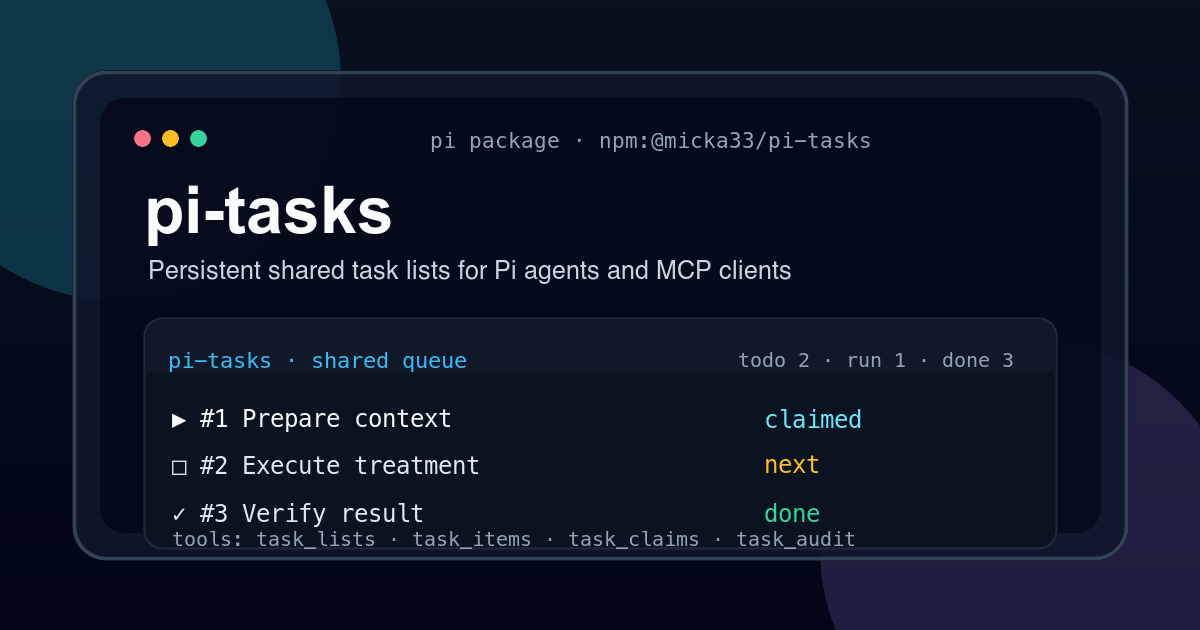
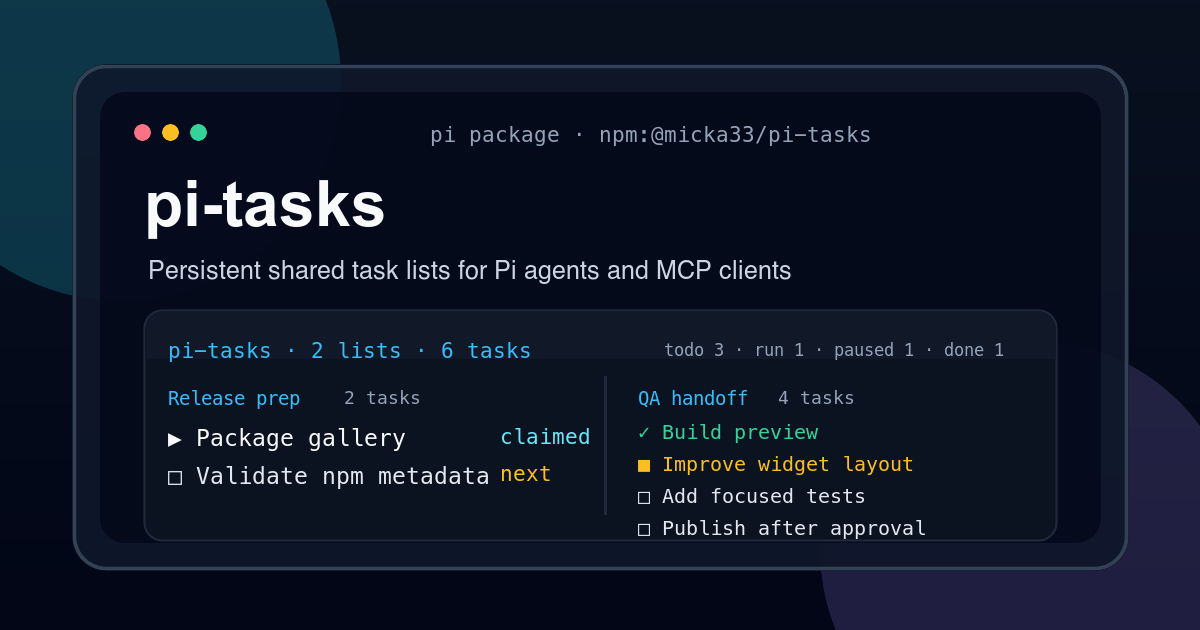
Improve pi-tasks widget readability

diff --git a/src/pi/dashboard-widget.ts b/src/pi/dashboard-widget.ts
@@ -1,4 +1,4 @@
-import type { ExtensionAPI, ExtensionContext } from "@earendil-works/pi-coding-agent";
+import type { ExtensionAPI, ExtensionContext, Theme } from "@earendil-works/pi-coding-agent";
 import type { AutocompleteItem } from "@earendil-works/pi-tui";
 import { resolvePiAgentId } from "../core/agent-id.js";
 import { buildDashboard, type DashboardData, type DashboardList, type DashboardTask, type StatusCounts } from "../core/dashboard.js";
@@ -149,7 +149,7 @@ function refreshWidget(ctx: ExtensionContext, options: { notify?: boolean } = {}
         return;
       }
 
-      ctx.ui.setWidget(WIDGET_KEY, formatDashboard(dashboard, state.mode), { placement: "aboveEditor" });
+      ctx.ui.setWidget(WIDGET_KEY, colorizeDashboardLines(formatDashboard(dashboard, state.mode), ctx.ui.theme), { placement: "aboveEditor" });
       ctx.ui.setStatus(WIDGET_KEY, formatStatus(dashboard));
       if (options.notify) ctx.ui.notify(`${notifications.refreshedPrefix} (${state.mode})`, "info");
     } finally {
@@ -178,35 +178,87 @@ export function formatDashboard(dashboard: DashboardData, mode: WidgetMode): str
   const title = `pi-tasks · ${shortenAgentId(dashboard.agentId)} · ${plural(dashboard.lists.length, ui.title.list)} · ${plural(dashboard.totalActiveTasks, ui.title.task)}`;
   const maxLines = mode === "full" ? FULL_WIDGET_LINES : COMPACT_WIDGET_LINES;
   const entries = mode === "full" ? buildFullEntries(dashboard) : buildCompactEntries(dashboard);
-  const footer = mode === "full" ? ui.footer.compact : ui.footer.full;
+  const switchCommand = mode === "full" ? ui.footer.compact : ui.footer.full;
+  const footer = `mode ${mode} · ${switchCommand}`;
 
   return frameEntries(title, entries, footer, maxLines);
+}
+
+export function colorizeDashboardLines(lines: string[], theme: Theme): string[] {
+  const ui = piTasksMessages().widget;
+  const metadataStyles: Array<[string, (value: string) => string]> = [
+    [`${escapeRegExp(ui.counts.run)} \\d+`, (value) => theme.fg("accent", value)],
+    [`${escapeRegExp(ui.markers.claim)} \\S+`, (value) => theme.fg("accent", value)],
+    [`${escapeRegExp(ui.counts.todo)} \\d+`, (value) => theme.fg("muted", value)],
+    [`${escapeRegExp(ui.counts.blocked)} \\d+`, (value) => theme.fg("warning", value)],
+    [`${escapeRegExp(ui.counts.paused)} \\d+`, (value) => theme.fg("warning", value)],
+    [escapeRegExp(ui.markers.paused), (value) => theme.fg("warning", value)],
+    [`${escapeRegExp(ui.counts.done)} \\d+`, (value) => theme.fg("success", value)],
+    [`${escapeRegExp(ui.counts.canceled)} \\d+`, (value) => theme.fg("error", value)],
+  ];
+  const glyphStyles: Array<[RegExp, (value: string) => string]> = [
+    [/▶/gu, (value) => theme.fg("accent", value)],
+    [/○/gu, (value) => theme.fg("dim", value)],
+    [/■/gu, (value) => theme.fg("warning", value)],
+    [/✓/gu, (value) => theme.fg("success", value)],
+    [/×/gu, (value) => theme.fg("error", value)],
+  ];
+
+  return lines.map((lineText, index) => {
+    let colored = index === 0 ? lineText.replace("pi-tasks", theme.fg("accent", theme.bold("pi-tasks"))) : lineText;
+
+    for (const [pattern, style] of metadataStyles) {
+      colored = colorizeDelimitedMetadata(colored, pattern, style);
+    }
+
+    for (const [pattern, style] of glyphStyles) {
+      colored = colored.replace(pattern, style);
+    }
+
+    colored = colored
+      .replace(/mode (?:compact|full)/gu, (value) => theme.fg("dim", value))
+      .replace(/\/task-widget(?: (?:on|off|compact|full|refresh))?|\/task-lists|\/tasks <list_id>/gu, (value) => theme.fg("dim", value))
+      .replace(/[╭╮╰╯├┤│─]+/gu, (value) => theme.fg("borderMuted", value));
+
+    return colored;
+  });
+}
+
+function colorizeDelimitedMetadata(lineText: string, metadataPattern: string, style: (value: string) => string): string {
+  const pattern = new RegExp(`(^| · |│\\s*)(${metadataPattern})(?= · |\\s*│|$)`, "gu");
+  return lineText.replace(pattern, (_match, prefix: string, value: string) => `${prefix}${style(value)}`);
+}
+
+function escapeRegExp(value: string): string {
+  return value.replace(/[.*+?^${}()|[\]\\]/g, "\\$&");
 }
 
 function buildCompactEntries(dashboard: DashboardData): FrameEntry[] {
   const budget = COMPACT_WIDGET_LINES - 2;
   const entries: FrameEntry[] = [];
   const myTasks = prioritizedMyTasks(dashboard);
+  const lists = prioritizedLists(dashboard);
   const ui = piTasksMessages().widget;
 
   entries.push(line(`${ui.sections.mine} · ${formatMineCounts(dashboard.myCounts)}`));
 
-  const maxMyTasks = Math.min(myTasks.length, 2);
+  const reserveForLists = compactListReserve(lists.length, budget);
+  const maxMyTasks = Math.min(myTasks.length, 2, Math.max(0, budget - reserveForLists - entries.length));
   for (const item of myTasks.slice(0, maxMyTasks)) {
     entries.push(line(formatTaskLine(item.task, item.list, { agentId: dashboard.agentId, includeListName: true, mySection: true, indent: "  " })));
   }
+
   const hiddenMyTasks = myTasks.length - maxMyTasks;
-  if (hiddenMyTasks > 0 && entries.length < budget - 2) {
+  if (hiddenMyTasks > 0 && entries.length < budget - reserveForLists) {
     entries.push(line(`  … ${hiddenMyTasks} ${ui.hidden.otherMineTasks}`));
   }
 
-  if (entries.length < budget) entries.push(separator(ui.sections.lists));
-
-  const lists = prioritizedLists(dashboard);
   if (lists.length === 0) {
     if (entries.length < budget) entries.push(line(ui.empty.noVisibleTasks));
     return entries;
   }
+
+  if (entries.length < budget) entries.push(separator(ui.sections.lists));
 
   const listSlots = budget - entries.length;
   const listLimit = lists.length > listSlots ? Math.max(0, listSlots - 1) : listSlots;
@@ -222,6 +274,14 @@ function buildCompactEntries(dashboard: DashboardData): FrameEntry[] {
   return entries;
 }
 
+function compactListReserve(listCount: number, budget: number): number {
+  if (listCount === 0) return 0;
+  const sectionLine = 1;
+  const visibleLists = Math.min(listCount, 2);
+  const hiddenLine = listCount > visibleLists ? 1 : 0;
+  return Math.min(budget - 1, sectionLine + visibleLists + hiddenLine);
+}
+
 function buildFullEntries(dashboard: DashboardData): FrameEntry[] {
   const budget = FULL_WIDGET_LINES - 2;
   const entries: FrameEntry[] = [];
@@ -230,7 +290,10 @@ function buildFullEntries(dashboard: DashboardData): FrameEntry[] {
 
   entries.push(line(`${ui.sections.mine} · ${formatMineCounts(dashboard.myCounts)}`));
 
-  const maxMyTasks = Math.min(myTasks.length, 2);
+  const lists = prioritizedLists(dashboard);
+  const reserveForListHeaders = Math.min(lists.length, 2);
+  const myTaskLimit = lists.length > 1 ? 1 : 2;
+  const maxMyTasks = Math.min(myTasks.length, myTaskLimit, Math.max(0, budget - reserveForListHeaders - entries.length));
   for (const item of myTasks.slice(0, maxMyTasks)) {
     entries.push(line(formatTaskLine(item.task, item.list, { agentId: dashboard.agentId, includeListName: true, mySection: true, indent: "  " })));
   }
@@ -239,7 +302,6 @@ function buildFullEntries(dashboard: DashboardData): FrameEntry[] {
     entries.push(line(`  … ${hiddenMyTasks} ${ui.hidden.otherMineTasks}`));
   }
 
-  const lists = prioritizedLists(dashboard);
   if (lists.length === 0) {
     if (entries.length < budget) entries.push(line(ui.empty.noVisibleTasks));
     return entries;
@@ -344,7 +406,9 @@ function addOmissionLine(entries: FrameEntry[], budget: number, text: string): v
     entries.push(line(text));
     return;
   }
-  if (budget > 0) entries[budget - 1] = line(text);
+
+  const replaceIndex = Math.max(0, entries.slice(0, budget).findLastIndex((entry) => entry.kind === "line"));
+  entries[replaceIndex] = line(text);
 }
 
 function frameEntries(title: string, entries: FrameEntry[], footer: string, maxLines: number): string[] {

diff --git a/tests/dashboard-widget.test.ts b/tests/dashboard-widget.test.ts
@@ -7,7 +7,7 @@ import { shortHash } from "../src/core/agent-id.js";
 import { buildDashboard, emptyCounts, type DashboardData } from "../src/core/dashboard.js";
 import { TaskService } from "../src/core/service.js";
 import type { AccessOptions, Task, TaskList, TaskStatus } from "../src/core/types.js";
-import { formatDashboard, getTaskWidgetArgumentCompletions, registerPiTasksDashboardWidget, terminalDisplayWidth } from "../src/pi/dashboard-widget.js";
+import { colorizeDashboardLines, formatDashboard, getTaskWidgetArgumentCompletions, registerPiTasksDashboardWidget, terminalDisplayWidth } from "../src/pi/dashboard-widget.js";
 
 process.env.PI_TASKS_LANG = "fr";
 
@@ -21,6 +21,11 @@ function tmpCwd(): { cwd: string; cleanup: () => void } {
   return { cwd, cleanup: () => rmSync(cwd, { recursive: true, force: true }) };
 }
 
+const fakeTheme = {
+  fg: (color: string, value: string) => `\u001B[${color}m${value}\u001B[0m`,
+  bold: (value: string) => `\u001B[boldm${value}\u001B[0m`,
+} as any;
+
 function mockWidgetContext(cwd: string, options: { hasUI?: boolean; sessionFile?: string; sessionManager?: unknown } = {}) {
   const widgets: Array<{ key: string; value: string[] | undefined; options?: unknown }> = [];
   const statuses: Array<{ key: string; value: string | undefined }> = [];
@@ -31,6 +36,7 @@ function mockWidgetContext(cwd: string, options: { hasUI?: boolean; sessionFile?
       hasUI: options.hasUI ?? true,
       sessionManager: options.sessionManager ?? { getSessionFile: () => options.sessionFile ?? join(cwd, "session.json") },
       ui: {
+        theme: fakeTheme,
         setWidget(key: string, value: string[] | undefined, widgetOptions?: unknown) {
           widgets.push({ key, value, options: widgetOptions });
         },
@@ -135,6 +141,32 @@ test("widget display width accounts for CJK and zero-width marks", () => {
   assert.equal(terminalDisplayWidth("日本"), 4);
   assert.equal(terminalDisplayWidth("e\u0301"), 1);
   assert.equal(terminalDisplayWidth("x\uFE0F"), 1);
+});
+
+test("colorizeDashboardLines styles borders, labels, status glyphs, counts, and commands", () => {
+  const colored = colorizeDashboardLines(
+    [
+      "╭ pi-tasks · mine · lists ─╮",
+      "│ ▶ run 1 · verrou expire dans 2h · ○ todo 2 · ■ blocked 1 · paused 1 · ✓ done 1 · × canceled 1 │",
+      "│ Amélioration widget pi-tasks · todo 5 │",
+      "│ task to run 10 blocked stuff done · no tasks │",
+      "│ ■ Blocked task · paused │",
+      "│ canceled 1 │",
+      "╰ mode compact · /task-widget full · /tasks <list_id> · /task-lists ╯",
+    ],
+    fakeTheme,
+  );
+
+  assert.equal(colored.some((line) => line.includes("\u001B[borderMutedm╭")), true);
+  assert.equal(colored.join("\n").match(/\u001B\[accentm\u001B\[boldmpi-tasks/g)?.length, 1);
+  assert.equal(colored.join("\n").includes("task to run 10 blocked stuff done"), true);
+  assert.equal(colored.join("\n").includes("task to \u001B[accentmrun 10"), false);
+  assert.equal(colored.some((line) => line.includes("\u001B[successm✓")), true);
+  assert.equal(colored.some((line) => line.includes("\u001B[errorm×")), true);
+  assert.equal(colored.some((line) => line.includes("\u001B[errormcanceled 1")), true);
+  assert.equal(colored.some((line) => line.includes("\u001B[warningmpaused")), true);
+  assert.equal(colored.some((line) => line.includes("\u001B[dimmmode compact")), true);
+  assert.equal(colored.some((line) => line.includes("\u001B[dimm/task-widget full")), true);
 });
 
 test("formatDashboard aligns framed borders with Japanese and Chinese wide characters", () => {
@@ -284,16 +316,18 @@ test("formatDashboard covers empty, hidden, long, duration, and status variants"
   ]);
   const compact = formatDashboard(rich, "compact");
   assert.equal(compact.some((line) => line.includes("very-long-agent…")), true);
-  assert.equal(compact.some((line) => line.includes("autre(s) tâche(s) à moi")), true);
   assert.equal(compact.some((line) => line.includes("done 1")), true);
   assert.equal(compact.some((line) => line.includes("canceled 1")), true);
   assert.equal(compact.some((line) => line.includes("liste(s) masquée(s)")), true);
+
+  const manyMineOneList = dashboardFromLists(agentId, [{ list: listA, tasks: rich.lists[0]!.tasks }]);
+  assert.equal(formatDashboard(manyMineOneList, "compact").some((line) => line.includes("autre(s) tâche(s) à moi")), true);
   const full = formatDashboard(rich, "full");
-  assert.equal(full.some((line) => line.includes("claim 30s")), true);
+  assert.equal(full.some((line) => line.includes("verrou expire dans 30s")), true);
   const hourClaim = dashboardFromLists("claim-agent", [
     { list: widgetList("claims", "Claims"), tasks: [widgetTask({ id: "hour-claim", list_id: "claims", title: "Hour claim", status: "in_progress", claim_expires_at: futureHours })] },
   ]);
-  assert.equal(formatDashboard(hourClaim, "full").some((line) => line.includes("claim 2h")), true);
+  assert.equal(formatDashboard(hourClaim, "full").some((line) => line.includes("verrou expire dans 2h")), true);
 
   const originalDateNow = Date.now;
   Date.now = () => Date.parse("2026-01-01T00:00:00.000Z");
@@ -304,7 +338,7 @@ test("formatDashboard covers empty, hidden, long, duration, and status variants"
         tasks: [widgetTask({ id: "exact-hour-claim", list_id: "exact-claim", title: "Exact hour claim", status: "in_progress", claim_expires_at: "2026-01-01T02:00:00.000Z" })],
       },
     ]);
-    assert.equal(formatDashboard(exactHourClaim, "full").some((line) => line.includes("Exact hour claim") && line.includes("claim 2h")), true);
+    assert.equal(formatDashboard(exactHourClaim, "full").some((line) => line.includes("Exact hour claim") && line.includes("verrou expire dans 2h")), true);
   } finally {
     Date.now = originalDateNow;
   }
@@ -337,7 +371,7 @@ test("formatDashboard covers empty, hidden, long, duration, and status variants"
   const invalidLines = formatDashboard(invalidDurations, "full");
   assert.equal(invalidLines.some((line) => line.includes("duration ?")), true);
   assert.equal(invalidLines.some((line) => line.includes("duration 2h")), true);
-  assert.equal(invalidLines.some((line) => line.includes("claim not-a-date")), true);
+  assert.equal(invalidLines.some((line) => line.includes("verrou expire dans not-a-date")), true);
 
   const claimTimes = dashboardFromLists("claim-agent", [
     {
@@ -349,8 +383,8 @@ test("formatDashboard covers empty, hidden, long, duration, and status variants"
     },
   ]);
   const claimLines = formatDashboard(claimTimes, "full");
-  assert.equal(claimLines.some((line) => line.includes("claim 1m")), true);
-  assert.equal(claimLines.some((line) => line.includes("claim -1m")), true);
+  assert.equal(claimLines.some((line) => line.includes("verrou expire dans 1m")), true);
+  assert.equal(claimLines.some((line) => line.includes("verrou expire dans -1m")), true);
 
   const exactMinuteDuration = dashboardFromLists("duration-agent", [
     {
@@ -424,14 +458,13 @@ test("dashboard widget is framed and stays under Pi's 10-line widget limit", () 
           { title: "préparer les fichiers" },
           { title: "exécuter les tests" },
           { title: "documenter le résultat" },
+          { title: "publier après validation" },
         ],
       },
       a,
     );
     const running = service.claimNextTask({ list_id: "example-list-2" }, a).task;
     assert.ok(running);
-
-    service.createTaskList({ id: "empty-list", name: "Empty list", scope_type: "workspace", scope_key: "/repo", visibility: "shared" }, a);
 
     const dashboard = buildDashboard(service, a, { includeDone: true });
     const compact = formatDashboard(dashboard, "compact");
@@ -440,8 +473,10 @@ test("dashboard widget is framed and stays under Pi's 10-line widget limit", () 
     assertFramedWidget(compact, 8);
     assertFramedWidget(full, 10);
     assert.ok(compact.some((line) => line.includes("moi · run 1 · todo 0 · paused 1")));
-    assert.ok(compact.some((line) => line.includes("├─ listes")));
-    assert.ok(full.some((line) => line.includes("Example list 2 · todo 2 · run 1 · blocked 0 · done 0")));
+    assert.ok(compact.some((line) => line.includes("Example list 1 · todo 0 · run 0 · blocked 1 · done 1")));
+    assert.ok(compact.some((line) => line.includes("Example list 2 · todo 3 · run 1 · blocked 0 · done 0")));
+    assert.ok(full.some((line) => line.includes("Example list 1 · todo 0 · run 0 · blocked 1 · done 1")));
+    assert.ok(full.some((line) => line.includes("Example list 2 · todo 3 · run 1 · blocked 0 · done 0")));
     assert.ok(full.some((line) => line.includes("paused")));
 
     service.close();

diff --git a/src/i18n/en.ts b/src/i18n/en.ts
@@ -204,7 +204,7 @@ export const en = {
     markers: {
       mine: "mine",
       paused: "paused",
-      claim: "claim",
+      claim: "lock expires in",
       duration: "duration",
     },
     statusLine: {

diff --git a/src/i18n/fr.ts b/src/i18n/fr.ts
@@ -208,7 +208,7 @@ export const fr = {
     markers: {
       mine: "mine",
       paused: "paused",
-      claim: "claim",
+      claim: "verrou expire dans",
       duration: "duration",
     },
     statusLine: {